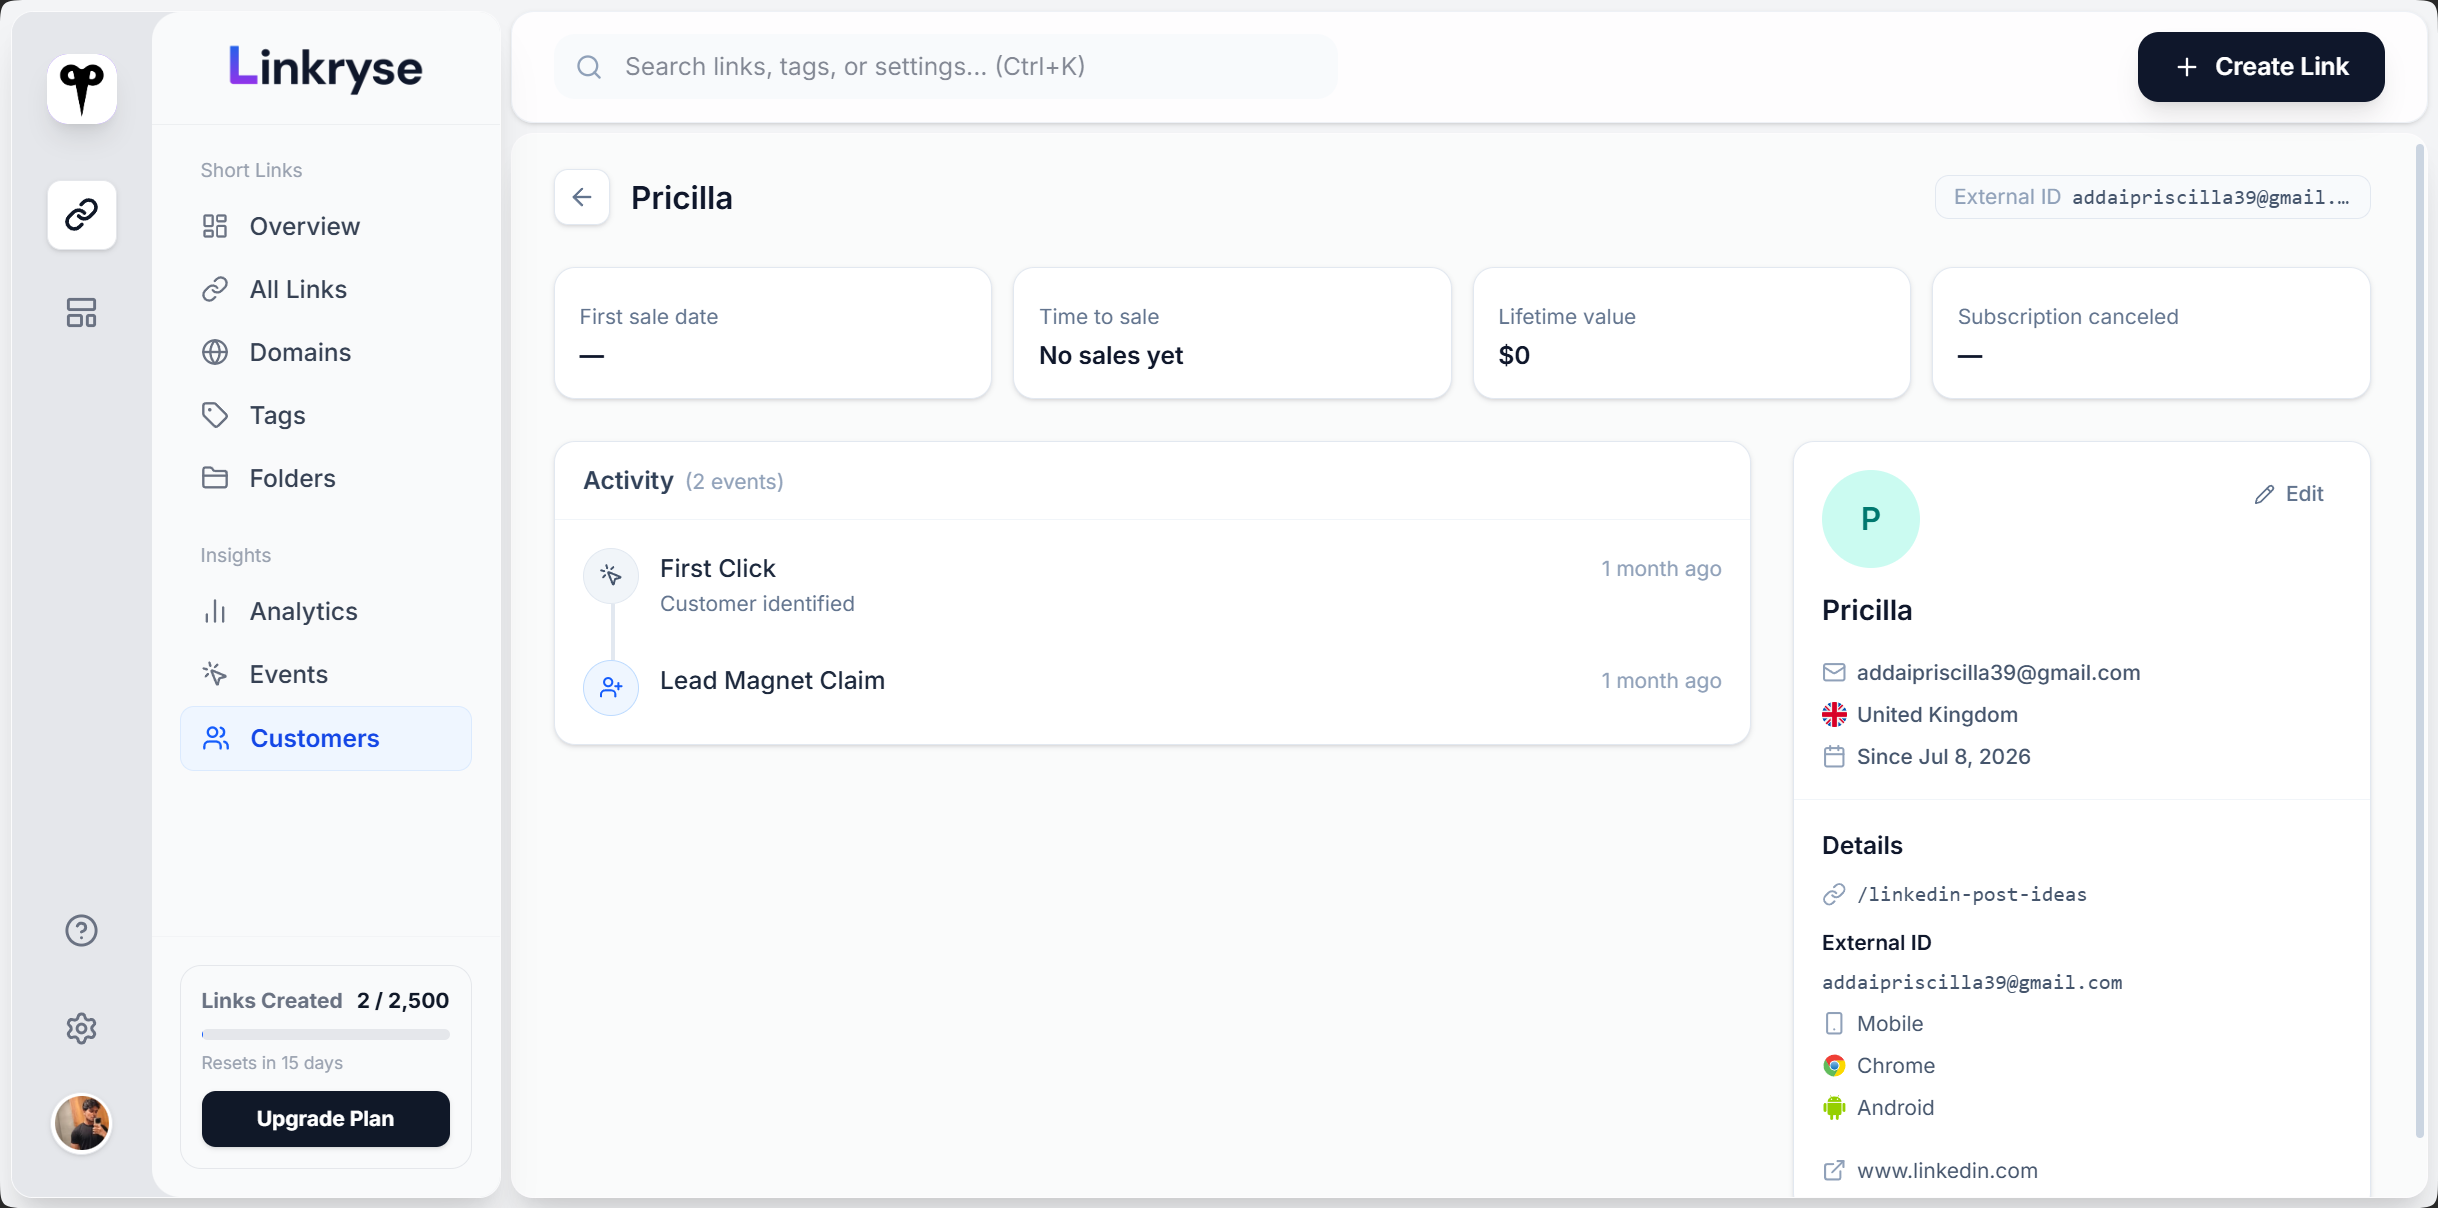
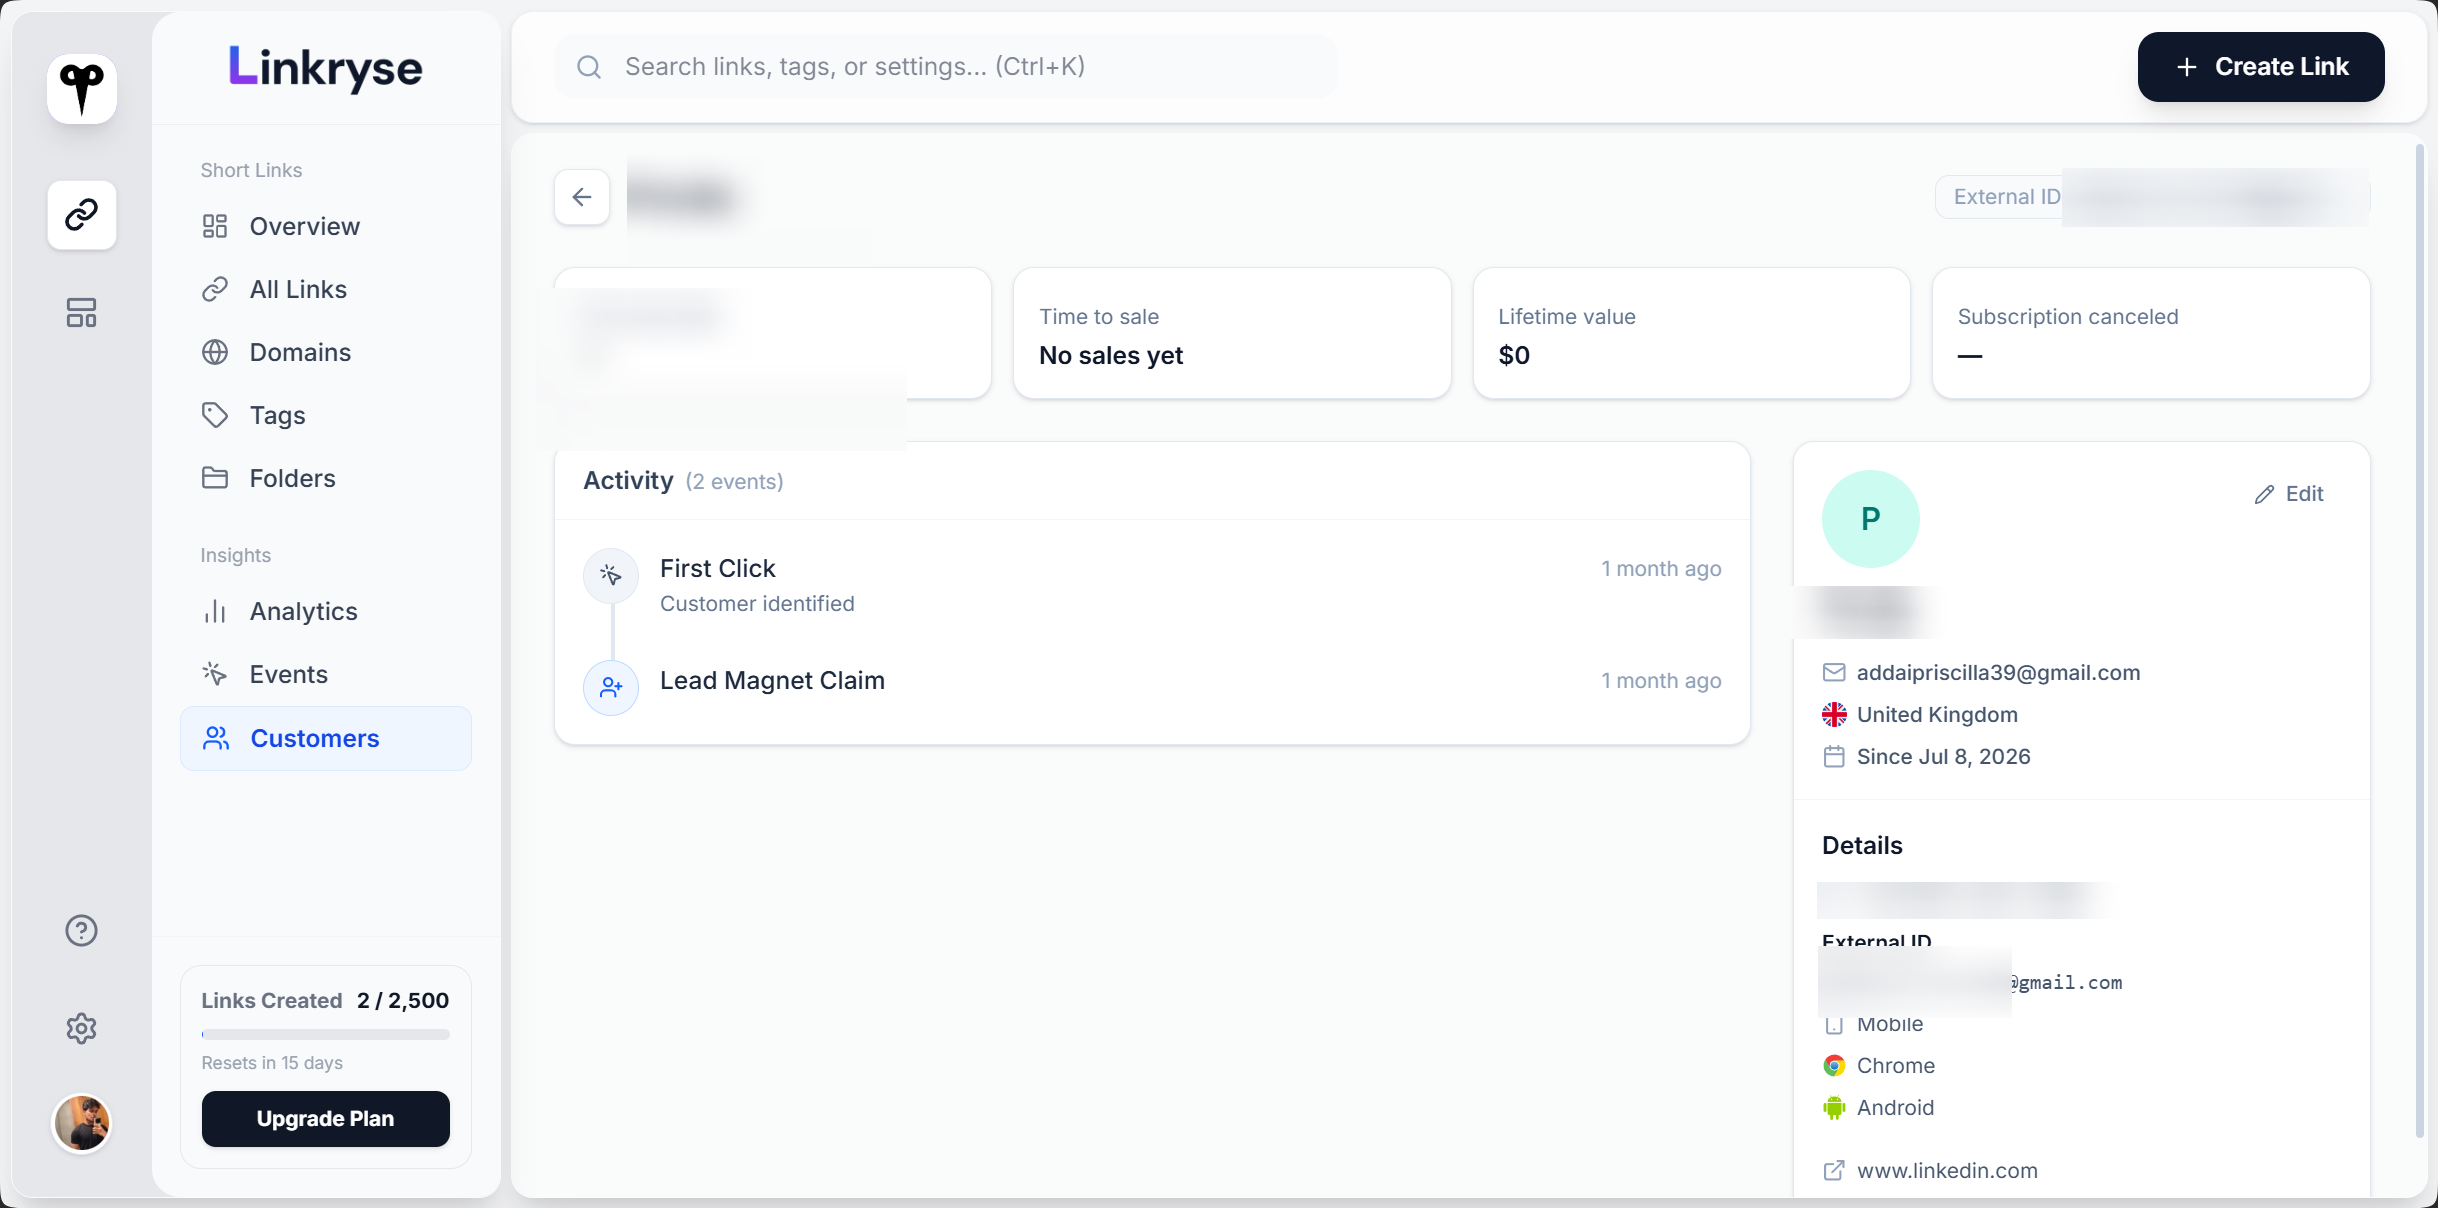
fix(gallery): resolve vertical duplicate image stacking by centering single infinite horizontal cinema reel in WebGL shader

diff --git a/src/components/projects/ProjectGallery.tsx b/src/components/projects/ProjectGallery.tsx
@@ -33,15 +33,19 @@ void main() {
     float distortion = 1.0 - 0.04 * r * r;
     vec2 distortedUV = uv * distortion;
 
-    // Cell positioning and tiling
-    vec2 cellCoord = (distortedUV * uZoom + uOffset) / vec2(uCellSize, uCellSize * 0.5625);
+    // Cell positioning and tiling with proper vertical centering
+    vec2 cellSize = vec2(uCellSize, uCellSize * 0.5625);
+    vec2 cellCoord = (distortedUV * uZoom + uOffset) / cellSize + vec2(0.0, 0.5);
     vec2 cellId = floor(cellCoord);
     vec2 cellUV = fract(cellCoord);
 
     vec3 backgroundColor = uBackgroundColor.rgb;
 
-    // Larger 16:9 Image size inside cell (93% width, equal pixel gaps)
-    vec2 imageSize = vec2(0.93, 0.8496);
+    // Single centered horizontal row (cellId.y == 0.0) eliminates vertical duplicate repetition
+    bool inCenterRow = (cellId.y == 0.0);
+
+    // Larger 16:9 Image size inside cell
+    vec2 imageSize = vec2(0.94, 0.88);
     vec2 imageBorder = (vec2(1.0) - imageSize) * 0.5;
 
     vec2 imageUV = (cellUV - imageBorder) / imageSize;
@@ -54,19 +58,19 @@ void main() {
     bool inImageArea = imageUV.x >= 0.0 && imageUV.x <= 1.0 && imageUV.y >= 0.0 && imageUV.y <= 1.0;
 
     // Organic screen boundary dissolve factor (top and bottom shadows only)
-    float fadeY = smoothstep(0.0, 0.16, vUv.y) * smoothstep(1.0, 0.84, vUv.y);
+    float fadeY = smoothstep(0.0, 0.12, vUv.y) * smoothstep(1.0, 0.88, vUv.y);
     float screenDissolve = fadeY;
 
-    // Apply smooth dissolve directly to the image texture alpha so images dissolve into background
-    float finalAlpha = imageAlpha * screenDissolve;
+    // Apply smooth dissolve directly to the image texture alpha (only for center row)
+    float finalAlpha = inCenterRow ? (imageAlpha * screenDissolve) : 0.0;
 
-    // Non-negative modulo index wrapping for seamless 4x4 infinite grid looping
-    float rawIndex = mod(cellId.x + cellId.y * 3.0, uTextureCount);
+    // Seamless horizontal infinite index wrapping
+    float rawIndex = mod(cellId.x, uTextureCount);
     float texIndex = rawIndex < 0.0 ? rawIndex + uTextureCount : rawIndex;
 
     vec3 color = backgroundColor;
 
-    if (inImageArea && finalAlpha > 0.0) {
+    if (inImageArea && inCenterRow && finalAlpha > 0.0) {
         float atlasSize = ceil(sqrt(uTextureCount));
         vec2 atlasPos = vec2(mod(texIndex, atlasSize), floor(texIndex / atlasSize));
         vec2 atlasUV = (atlasPos + imageUV) / atlasSize;
@@ -87,18 +91,10 @@ interface ProjectGalleryProps {
 export default function ProjectGallery({ images }: ProjectGalleryProps) {
   const containerRef = useRef<HTMLDivElement>(null);
 
-  // Distribute 16 gallery tile items
+  // Load exact unique images without repetitive array padding
   const galleryItems = useMemo(() => {
     if (!images || images.length === 0) return [];
-    if (images.length === 1) return Array(16).fill(images[0].url);
-
-    const result: string[] = [];
-    while (result.length < 16) {
-      images.forEach((img) => {
-        if (result.length < 16) result.push(img.url);
-      });
-    }
-    return result.slice(0, 16);
+    return images.map((img) => img.url);
   }, [images]);
 
   useEffect(() => {
@@ -216,7 +212,7 @@ export default function ProjectGallery({ images }: ProjectGalleryProps) {
         targetZoom = 1.06 * getBaseZoom();
       }
       targetPos.x -= 0.003 * dx;
-      targetPos.y += 0.003 * dy;
+      targetPos.y += 0.0004 * dy;
       lastPos.x = x;
       lastPos.y = y;
     };
@@ -256,6 +252,11 @@ export default function ProjectGallery({ images }: ProjectGalleryProps) {
     let animId: number;
     const animate = () => {
       animId = requestAnimationFrame(animate);
+
+      // Spring return targetPos.y to center
+      if (!isDragging) {
+        targetPos.y += (0.0 - targetPos.y) * 0.08;
+      }
 
       curPos.x += (targetPos.x - curPos.x) * 0.075;
       curPos.y += (targetPos.y - curPos.y) * 0.075;
